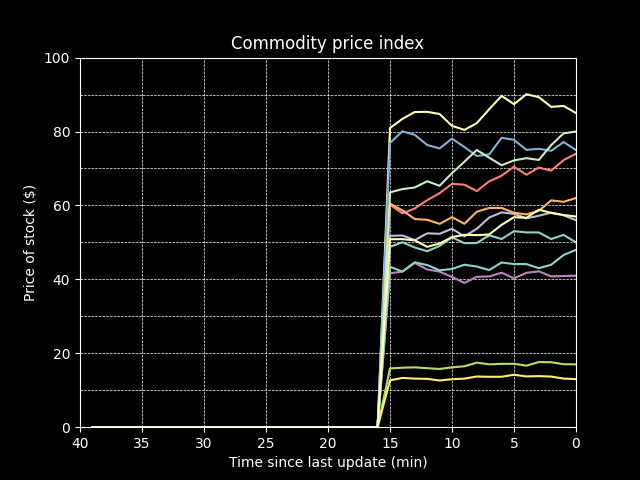
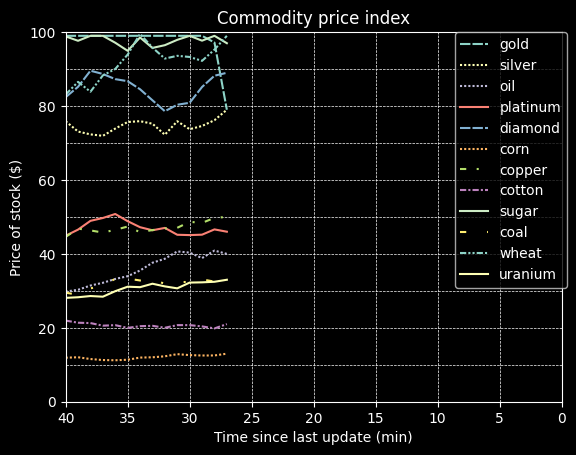
Improved graphing, working algorithm & bug fixes
-> the name of log() has been changed to logger()
-> logger() got some improvements
-> graphing actually works now, plots from the left
-> *improved* layouting in graphing

-x need to fix the position of the legend – currently juts into the xy area

diff --git a/stocksnew.py b/stocksnew.py
@@ -37,6 +37,7 @@ import numpy as np
 # TODOLIST:
 # program .sell and .sellall
 # centralize goodlist list
+# add .help
 
 # LONGTERM TODOLIST:
 # need a bot and server pfp, cash award for dude who makes it
@@ -45,6 +46,7 @@ import numpy as np
 # await channel.send('done!')
 
 bot = commands.Bot(command_prefix = '.')
+bot.remove_command('help')
 
 goodslist = (
     "gold",
@@ -101,7 +103,7 @@ def resetprices():
 
 async def updateprices(): #market trend algorithm goes here, asynchronous. Need to save previous prices + just do a randomization thing, fix algorithm last
     prices = getprices() #check if zero, update last term
-    log = log("get")
+    log = logger("get")
 
     history = 0 #cycle through the history of all the goods to find length of good history
     while True:
@@ -109,15 +111,32 @@ async def updateprices(): #market trend algorithm goes here, asynchronous. Need 
             break
         history += 1
 
-    goodnum = 0 #only cycle through all the names of goods
-
+    goodnum = 0
     #make while loop edit only a single good because right now it's editing basically everything
     while goodnum <= 11:
-        bias: 0
+        #if log[goodslist[goodnum]][1] >= 5: #0 is number of goods, 1 is number of users
+        #    userbias = 5
+        #else:
+        userbias = log[goodslist[goodnum]][1]
+        
+        #if log[goodslist[goodnum]][0] >= 30:
+        #    goodbias = 30
+        #elif log[goodslist[goodnum]][0] <= -30:
+        #    goodbias = -30
+        #else:
+        goodbias = log[goodslist[goodnum]][0]
+
+        #print(goodbias*userbias)
+
+        bias = (-((75*np.log(-(goodbias*userbias)+150))/np.log(12.24744872))+150)/150*3
+
         previousprice = prices[goodslist[goodnum]][history-1]
         prices[goodslist[goodnum]][history] = previousprice*(1+random.uniform(-0.0575+bias,0.0425+bias))
+        if prices[goodslist[goodnum]][history] >= 100:
+            prices[goodslist[goodnum]][history] = 99
         goodnum += 1
-        setfileprices(prices)
+    setfileprices(prices)
+    return history
 
 def displayprices(): #asynchronous because it needs to run periodically while rest of the bot is running
     indentedgoods = (
@@ -207,29 +226,31 @@ def cansell(inventory,order,amount): #returns T/F and how much money made
 
     return selldetails
 
-def log(type,good=None,amount=None): #need good-specific logs, make new function or get this to encompass everything to retrieve and send logdata 
-    amount = int(amount)
-    with open('/Users/adityakannan/PythonProjects/Stocks_Revamped/cache/activitylog.json','r') as logdata:
-        log = json.load(logdata)
+def logger(type,good=None,amount=None): #need good-specific logs, make new function or get this to encompass everything to retrieve and send logdata 
+    if amount != None:
+        amount = int(amount)
+    
+    with open('/Users/adityakannan/PythonProjects/Stocks_Revamped/cache/activitylog.json','r') as logjson:
+        logdata = json.load(logjson)
 
     if type == "get":
-        return log
+        return logdata
 
     if type == "reset":
         log = {}
         for x in goodslist:
-            log.update({x:[0,0,0,0]}) # [0] amount bought, [1] for number of buyers, [2] amount sold, [3] for number of sellers
+            log.update({x:[0,0]}) # [0] total amount bought/sold, [1] for number of buyers/sellers
     
     if type == "buy":
-        log[good][0] += amount
-        log[good][1] += 1
+        logdata[good][0] += amount
+        logdata[good][1] += 1
 
     if type == "sell":
-        log[good][2] += amount
-        log[good][3] += 1
+        logdata[good][0] -= amount
+        logdata[good][1] -= 1
 
-    with open('/Users/adityakannan/PythonProjects/Stocks_Revamped/cache/activitylog.json','w') as logdata:
-        json.dump(log,logdata)
+    with open('/Users/adityakannan/PythonProjects/Stocks_Revamped/cache/activitylog.json','w') as logjson:
+        json.dump(logdata,logjson)
 
 def getcost(type,amount=None): #implementation with goods prices. Is this really necessary? Might be needed for .totalvalue
     pass
@@ -243,7 +264,7 @@ async def on_ready(): #needs to *start* with asyncio(time) because the prices ar
     await bot.change_presence(activity=discord.Game(name='(.help)'))
     
     resetprices()
-    log("reset")
+    logger("reset")
 
     print('Stockbroker is ready.')
     #while True:
@@ -355,7 +376,7 @@ async def buy(ctx,order,amount):
     if purchasedetails[1] is True:
         user["money"] = user["money"] - purchasedetails[0]
         user["goods"] = setgoods("buy",user["goods"],order,amount) #changed from 'inventory' to 'user["goods"]'
-        log("buy",order,amount)
+        logger("buy",order,amount)
         await ctx.send("Purchased **" + str(amount) + " " + order + "** and paid " + str(purchasedetails[0]) + "$")
     else:
         await ctx.send("Transaction failed. You need " + str((purchasedetails[0] - user["money"])) + "$ more.")
@@ -370,7 +391,7 @@ async def sell(ctx,order,amount):
     if selldetails[1] is True:
         user["money"] = user["money"] + selldetails[0]
         user["goods"] = setgoods("sell",user["goods"],order,amount)
-        log("sell",order,amount)
+        logger("sell",order,amount)
         await ctx.send("Sold **" + str(amount) + " " + str(order) + "** and earned " + str(selldetails[0]) + "$")
     else:
         await ctx.send("Transaction failed. You need " + str(int(amount) - user["goods"][order]) + " more " + str(order))
@@ -393,19 +414,34 @@ async def test2(ctx):
 
     plt.close()
     fig = plt.figure()
-    xaxis = np.arange(0,40,1)
     prices = getprices()
 
+    history = 0
+    while True:
+        if prices[goodslist[0]][history] == 0:
+            break
+        history += 1
+
+    linestyles = [(0,(5,1)),(0,(1,1)),(0,(1,1)),'solid',(0,(5,1)),(0,(1,1)),(0,(3,5,1,5)),(0,(3,1,1,1)),'solid',(0, (3, 10, 1, 10, 1, 10)),(0, (3, 1, 1, 1, 1, 1)),'solid']
+
     plt.style.use('dark_background')
+
+    count = 0
     for x in prices:
-        plt.plot(xaxis,prices[x])
+        prices[x].reverse()
+        reversehistory = len(prices[x])-history
+        xaxis = np.arange(len(prices[x]),reversehistory,-1)
+        plt.plot(xaxis,prices[x][reversehistory:],linestyle=linestyles[count])
+        count += 1
+
     plt.axis([40,0,0,100])
     plt.vlines(range(40, 0, -5), 0, 100, linestyles='dashed', linewidth=0.5,colors='#fff')
     plt.hlines(range(10, 101, 10), 40, 0, linestyles='dashed', linewidth=0.5, colors='#fff')
     plt.ylabel('Price of stock ($)')
     plt.xlabel('Time since last update (min)')
     plt.title('Commodity price index')
-    plt.savefig('/Users/adityakannan/PythonProjects/Stocks_Revamped/cache/prices.png')
+    plt.legend(goodslist, bbox_to_anchor=(1.01, 1), borderaxespad=0.0)
+    plt.savefig('/Users/adityakannan/PythonProjects/Stocks_Revamped/cache/prices.png',bbox_inches='tight')
     plt.close()
 
 

diff --git a/algorithmtest.py b/algorithmtest.py
@@ -1,13 +1,10 @@
 import random
-a = 50
-b = []
-c = 0.01
-count = 0
-while (count<100):
-    b.append(a*(1 + random.uniform(-0.0575 + c,0.0425 + c)))
-    count += 1
-sum = 0
-for x in b:
-    sum += x
-average = (sum/len(b))
-print (average)
+import math
+import numpy as np
+
+x = 100
+#a = -((200*np.log(-x+400))/np.log(20))+400
+a = -((75*np.log(-x+150))/np.log(12.24744872))+150
+print(a)
+
+# 5 people buying 50 goods max
